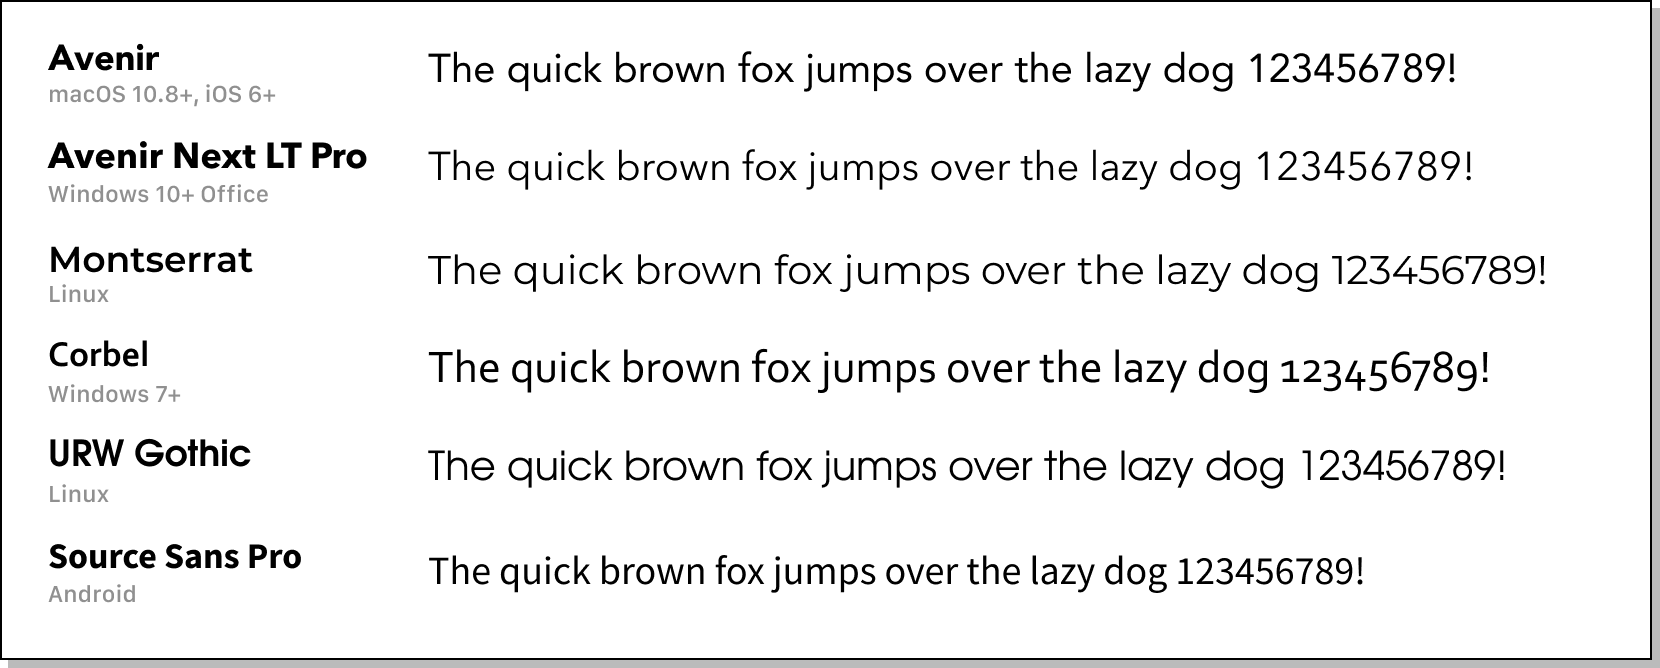
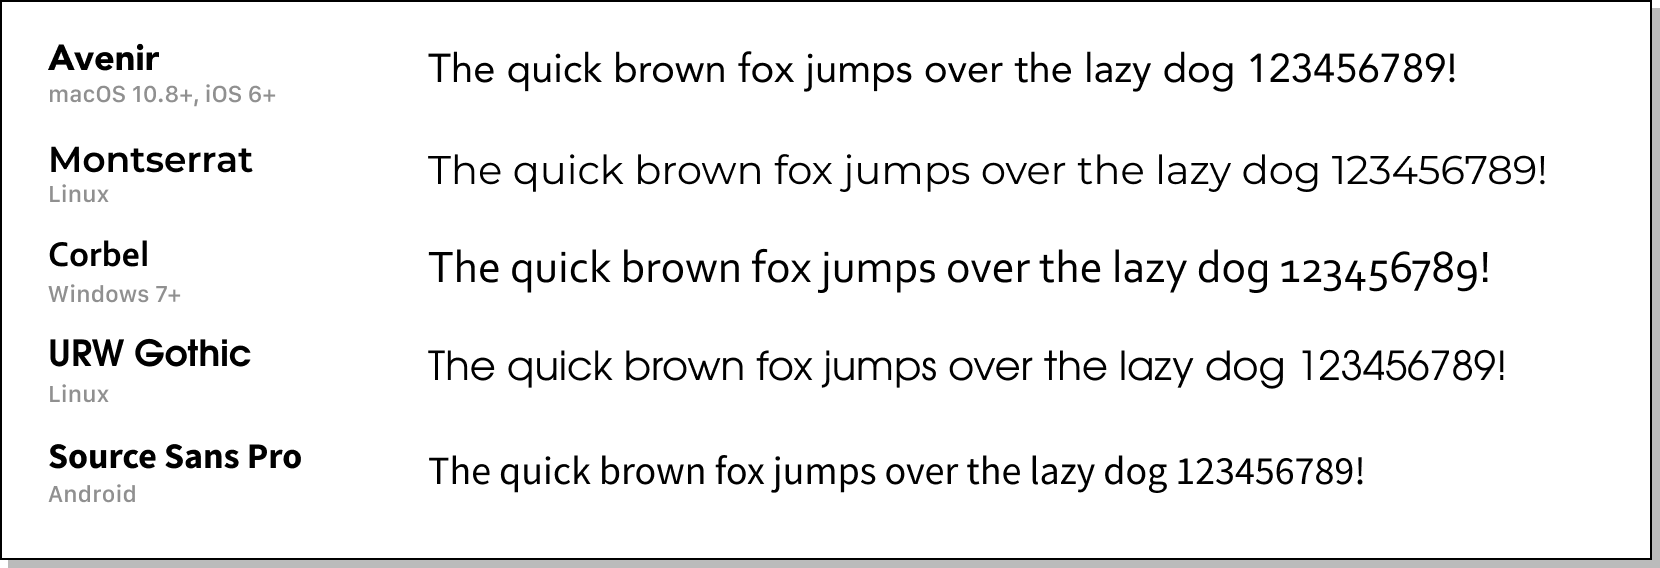
Remove Avenir Next LT Pro from the Geometric stack as it is only available for Office 365 Cloud so it's not accessible

diff --git a/site/src/_styles.css b/site/src/_styles.css
@@ -709,7 +709,7 @@ h2#characters {
 }
 
 .geometric-humanist {
-  font-family: Avenir, 'Avenir Next LT Pro', Montserrat, Corbel, 'URW Gothic', source-sans-pro, sans-serif;
+  font-family: Avenir, Montserrat, Corbel, 'URW Gothic', source-sans-pro, sans-serif;
 }
 
 .classical-humanist {

diff --git a/site/src/index.html b/site/src/index.html
@@ -273,7 +273,6 @@
           <code>
             font-family:
             <span>Avenir</span>,
-            <span>'Avenir Next LT Pro'</span>,
             <span>Montserrat</span>,
             <span>Corbel</span>,
             <span>'URW Gothic'</span>,

diff --git a/README.md b/README.md
@@ -227,7 +227,6 @@ font-family: Avenir, 'Avenir Next LT Pro', Montserrat, Corbel, 'URW Gothic', sou
 | Font Weights          | 100 | 200 | 300 | 400 | 500 | 600 | 700 | 800 | 900 |
 |:----------------------|:---:|:---:|:---:|:---:|:---:|:---:|:---:|:---:|:---:|
 | Avenir                |     |     |  ●  |  ●  |  ●  |     |     |  ●  |  ●  |
-| Avenir Next LT Pro    |     |     |  ●  |  ●  |     |     |  ●  |     |     |
 | Montserrat            |  ●  |  ●  |  ●  |  ●  |  ●  |  ●  |  ●  |  ●  |  ●  |
 | Corbel                |     |     |  ●  |  ●  |     |     |  ●  |     |     |
 | URW Gothic            |     |     |  ●  |     |     |  ●  |     |     |     |
@@ -235,7 +234,6 @@ font-family: Avenir, 'Avenir Next LT Pro', Montserrat, Corbel, 'URW Gothic', sou
 
 #### Notes
 - Avenir was chosen over Avenir Next for macOS because the weight 300 is much more legible on the web over the 200 weight that Avenir Next has. If you're looking for an ultra-light or ultra-black, feel free to swap Avenir for Avenir Next.
-- [Avenir Next LT Pro](https://learn.microsoft.com/en-us/typography/font-list/avenirnextltpro) is supplied with Microsoft Office products.
 - Source Sans Pro uses name [source-sans-pro](https://android.googlesource.com/platform/frameworks/base/+/master/data/fonts/fonts.xml#263) under Android, so this font only targets Android devices.
 
 </details>
